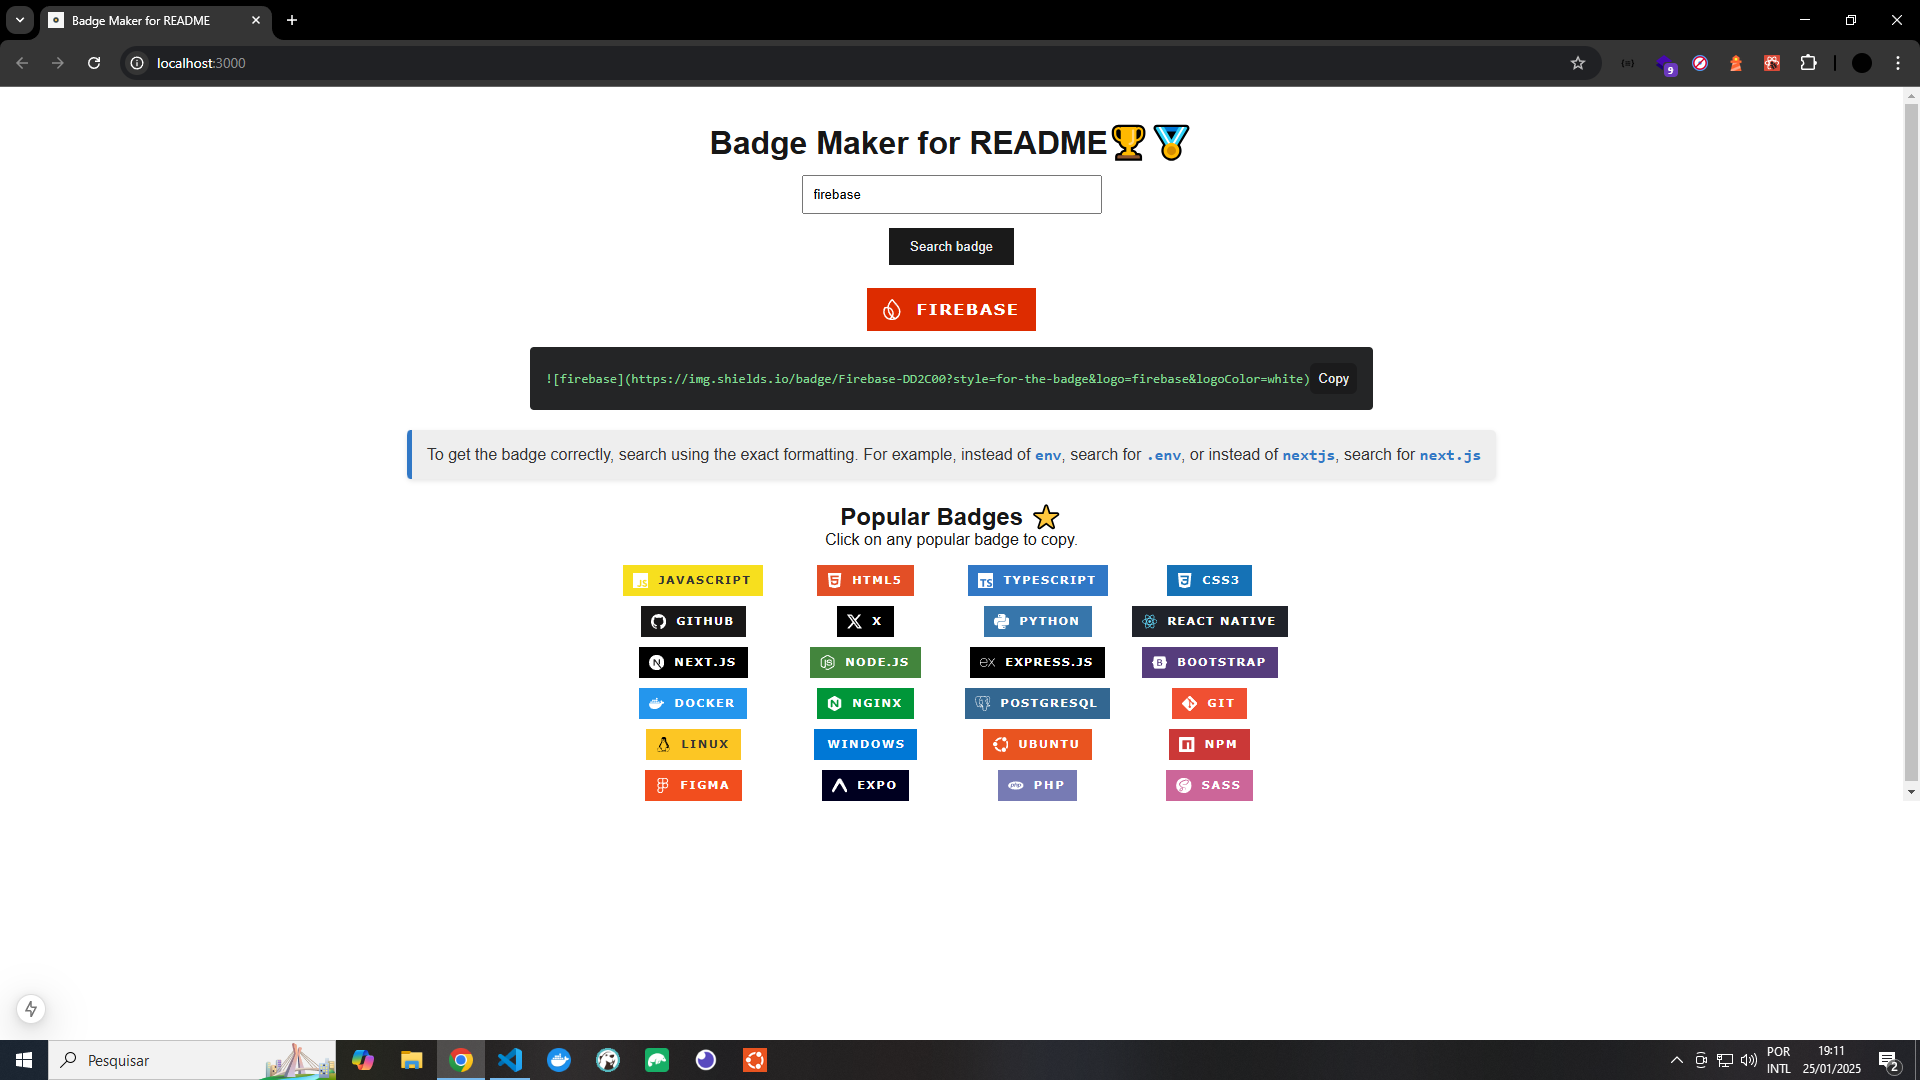
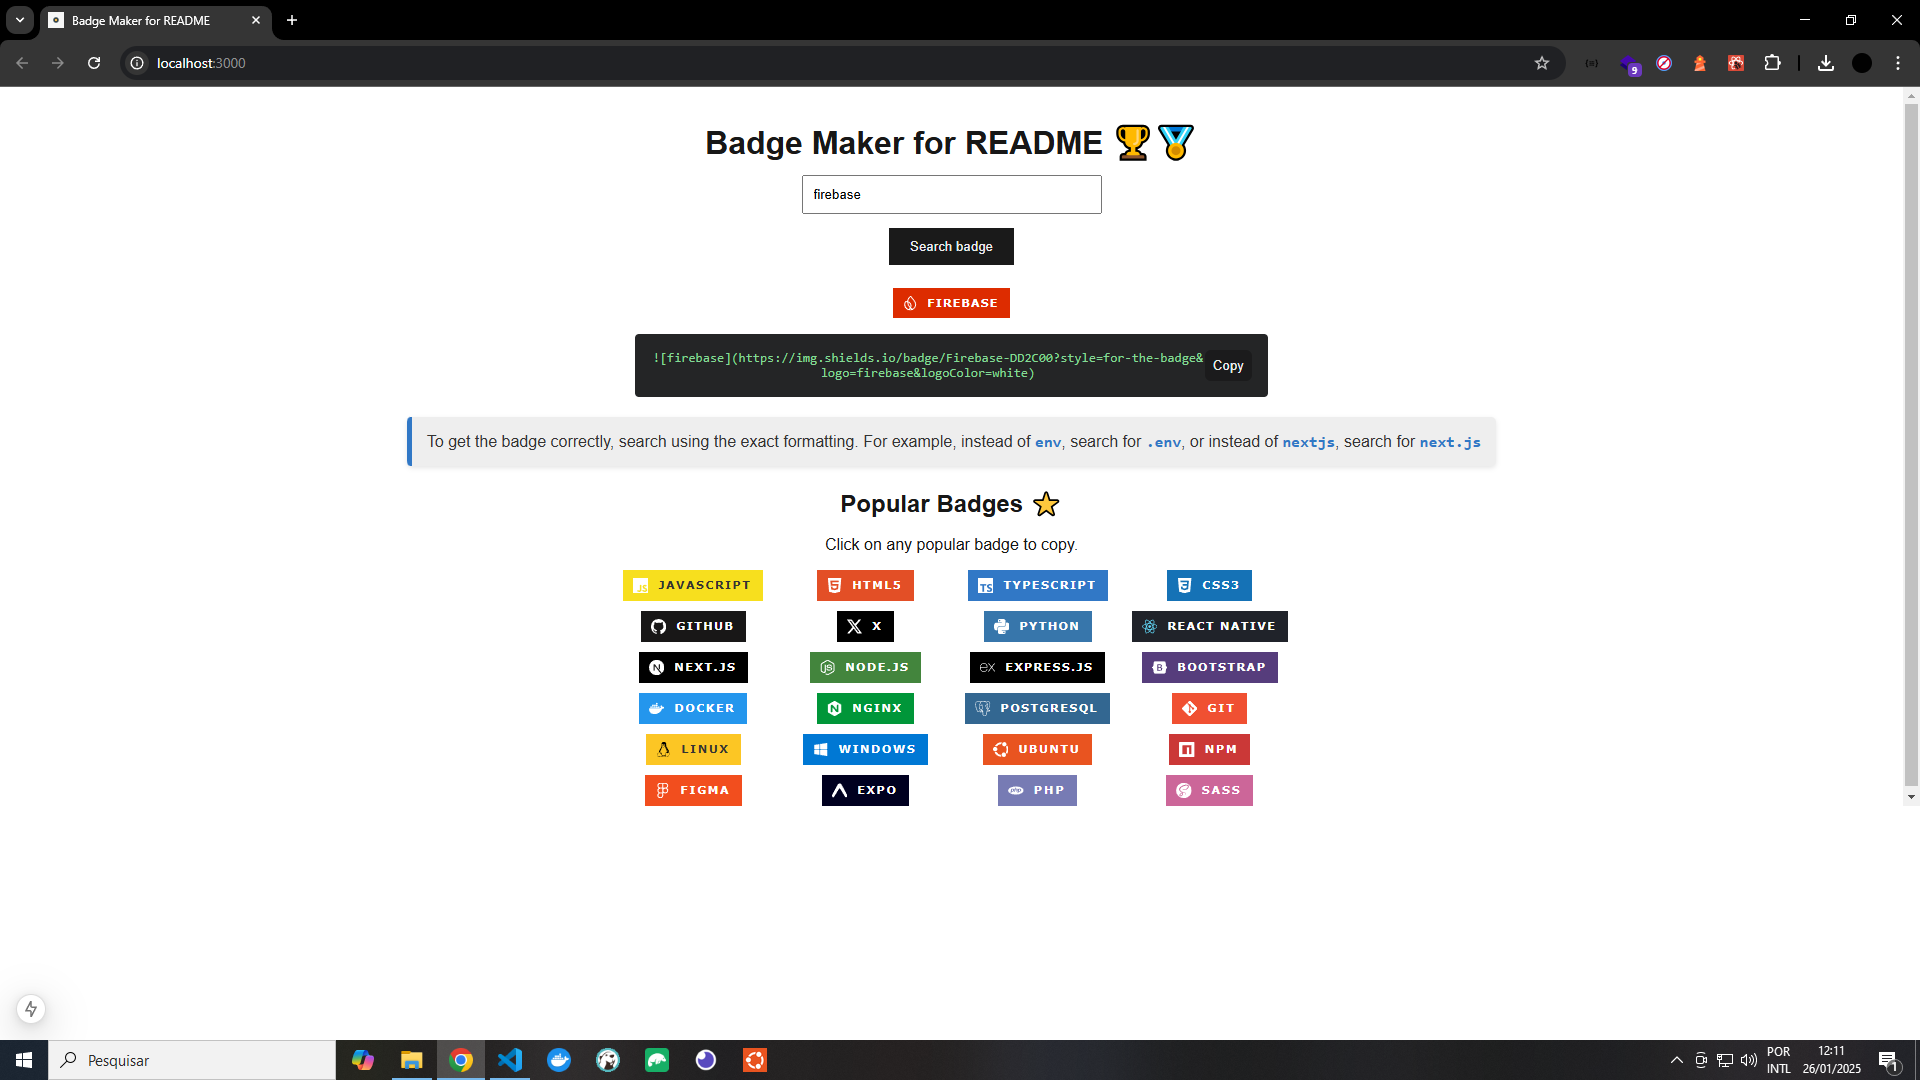
fix: inputValue refactor popularBadges

diff --git a/src/app/page.tsx b/src/app/page.tsx
@@ -2,118 +2,22 @@
 import { useState } from "react";
 import Image from "next/image";
 
+import popularBadges from "./popularBadges.json";
 import styles from "./page.module.css";
 
 const routePath = process.env.NODE_ENV === "development" ? '/' : '/badge-generator/';
 
 export default function Home() {
   const [tool, setTool] = useState("");
+  const [inputValue, setInputValue] = useState("");
   const [badgeUrl, setBadgeUrl] = useState("");
   const [copied, setCopied] = useState(false);
 
-  const popularBadges = [
-    {
-      url: '![js](https://img.shields.io/badge/JavaScript-F7DF1E?style=for-the-badge&logo=JavaScript&logoColor=white)',
-      preview: 'https://img.shields.io/badge/JavaScript-F7DF1E?style=for-the-badge&logo=JavaScript&logoColor=white'
-    },
-    {
-      url: '![html5](https://img.shields.io/badge/HTML5-E34F26?style=for-the-badge&logo=HTML5&logoColor=white)',
-      preview: 'https://img.shields.io/badge/HTML5-E34F26?style=for-the-badge&logo=HTML5&logoColor=white'
-    },
-    {
-      url: '![ts](https://img.shields.io/badge/TypeScript-3178C6?style=for-the-badge&logo=TypeScript&logoColor=white)',
-      preview: 'https://img.shields.io/badge/TypeScript-3178C6?style=for-the-badge&logo=TypeScript&logoColor=white'
-    },
-    {
-      url: '![css3](https://img.shields.io/badge/CSS3-1572B6?style=for-the-badge&logo=CSS3&logoColor=white)',
-      preview: 'https://img.shields.io/badge/CSS3-1572B6?style=for-the-badge&logo=CSS3&logoColor=white'
-    },
-    {
-      url: '![github](https://img.shields.io/badge/GitHub-181717?style=for-the-badge&logo=GitHub&logoColor=white)',
-      preview: 'https://img.shields.io/badge/GitHub-181717?style=for-the-badge&logo=GitHub&logoColor=white'
-    },
-    {
-      url: '![x](https://img.shields.io/badge/X-000000?style=for-the-badge&logo=X&logoColor=white)',
-      preview: 'https://img.shields.io/badge/X-000000?style=for-the-badge&logo=X&logoColor=white'
-    },
-    {
-      url: '![Python](https://img.shields.io/badge/Python-3776AB?style=for-the-badge&logo=python&logoColor=white)',
-      preview: 'https://img.shields.io/badge/Python-3776AB?style=for-the-badge&logo=python&logoColor=white'
-    },
-    {
-      url: '![React Native](https://img.shields.io/badge/React Native-20232A?style=for-the-badge&logo=react&logoColor=61DAFB)',
-      preview: 'https://img.shields.io/badge/React Native-20232A?style=for-the-badge&logo=react&logoColor=61DAFB'
-    },
-    {
-      url: '![Next.js](https://img.shields.io/badge/Next.js-000000?style=for-the-badge&logo=next.js&logoColor=white)',
-      preview: 'https://img.shields.io/badge/Next.js-000000?style=for-the-badge&logo=next.js&logoColor=white'
-    },
-    {
-      url: '![Node.js](https://img.shields.io/badge/Node.js-43853D?style=for-the-badge&logo=node.js&logoColor=white)',
-      preview: 'https://img.shields.io/badge/Node.js-43853D?style=for-the-badge&logo=node.js&logoColor=white'
-    },
-    {
-      url: '![Express.js](https://img.shields.io/badge/Express.js-000000?style=for-the-badge&logo=express&logoColor=white)',
-      preview: 'https://img.shields.io/badge/Express.js-000000?style=for-the-badge&logo=express&logoColor=white'
-    },
-    {
-      url: '![Bootstrap](https://img.shields.io/badge/Bootstrap-563D7C?style=for-the-badge&logo=bootstrap&logoColor=white)',
-      preview: 'https://img.shields.io/badge/Bootstrap-563D7C?style=for-the-badge&logo=bootstrap&logoColor=white'
-    },
-    {
-      url: '![Docker](https://img.shields.io/badge/Docker-2496ED?style=for-the-badge&logo=docker&logoColor=white)',
-      preview: 'https://img.shields.io/badge/Docker-2496ED?style=for-the-badge&logo=docker&logoColor=white'
-    },
-    {
-      url: '![nginx](https://img.shields.io/badge/NGINX-009639?style=for-the-badge&logo=NGINX&logoColor=white)',
-      preview: 'https://img.shields.io/badge/NGINX-009639?style=for-the-badge&logo=NGINX&logoColor=white'
-    },
-    {
-      url: '![PostgreSQL](https://img.shields.io/badge/PostgreSQL-336791?style=for-the-badge&logo=postgresql&logoColor=white)',
-      preview: 'https://img.shields.io/badge/PostgreSQL-336791?style=for-the-badge&logo=postgresql&logoColor=white'
-    },
-    {
-      url: '![Git](https://img.shields.io/badge/Git-F05032?style=for-the-badge&logo=git&logoColor=white)',
-      preview: 'https://img.shields.io/badge/Git-F05032?style=for-the-badge&logo=git&logoColor=white'
-    },
-    {
-      url: '![Linux](https://img.shields.io/badge/Linux-FCC624?style=for-the-badge&logo=linux&logoColor=black)',
-      preview: 'https://img.shields.io/badge/Linux-FCC624?style=for-the-badge&logo=linux&logoColor=black'
-    },
-    {
-      url: '![Windows](https://img.shields.io/badge/Windows-0078D6?style=for-the-badge&logo=windows&logoColor=white)',
-      preview: 'https://img.shields.io/badge/Windows-0078D6?style=for-the-badge&logo=windows&logoColor=white'
-    },
-    {
-      url: '![Ubuntu](https://img.shields.io/badge/Ubuntu-E95420?style=for-the-badge&logo=ubuntu&logoColor=white)',
-      preview: 'https://img.shields.io/badge/Ubuntu-E95420?style=for-the-badge&logo=ubuntu&logoColor=white'
-    },
-    {
-      url: '![npm](https://img.shields.io/badge/npm-CB3837?style=for-the-badge&logo=npm&logoColor=white)',
-      preview: 'https://img.shields.io/badge/npm-CB3837?style=for-the-badge&logo=npm&logoColor=white'
-    },
-    {
-      url: '![figma](https://img.shields.io/badge/Figma-F24E1E?style=for-the-badge&logo=Figma&logoColor=white)',
-      preview: 'https://img.shields.io/badge/Figma-F24E1E?style=for-the-badge&logo=Figma&logoColor=white'
-    },
-    {
-      url: '![expo](https://img.shields.io/badge/Expo-000020?style=for-the-badge&logo=Expo&logoColor=white)',
-      preview: 'https://img.shields.io/badge/Expo-000020?style=for-the-badge&logo=Expo&logoColor=white'
-    },
-    {
-      url: '![php](https://img.shields.io/badge/PHP-777BB4?style=for-the-badge&logo=PHP&logoColor=white)',
-      preview: 'https://img.shields.io/badge/PHP-777BB4?style=for-the-badge&logo=PHP&logoColor=white'
-    },
-    {
-      url: '![sass](https://img.shields.io/badge/Sass-CC6699?style=for-the-badge&logo=Sass&logoColor=white)',
-      preview: 'https://img.shields.io/badge/Sass-CC6699?style=for-the-badge&logo=Sass&logoColor=white'
-    }
-  ];
-
   const generateBadge = async () => {
-    if (!tool) return;
+    if (!inputValue) return;
   
-    const formattedTool = tool.trim().toLowerCase();
+    const formattedTool = inputValue.trim().toLowerCase();
+    setTool(formattedTool);
   
     try {
       const [data, dataCustom] = await Promise.all([
@@ -148,13 +52,13 @@ export default function Home() {
 
   return (
     <main className={styles.main}>
-      <h1>Badge Maker for README🏆🏅</h1>
+      <h1>Badge Maker for README 🏆🏅</h1>
 
       <input
         type="text"
         placeholder="Search tool name... (ex: rust)"
-        value={tool}
-        onChange={(e) => setTool(e.target.value)}
+        value={inputValue}
+        onChange={(e) => setInputValue(e.target.value)}
       />
 
       <button onClick={generateBadge} className={styles.buttonGenerateBadge}>
@@ -185,6 +89,7 @@ export default function Home() {
       </p>
 
       <h2>Popular Badges ⭐</h2>
+      <br />
       <p>Click on any popular badge to copy.</p>
       <div className={styles.badgesPopular}>
         {

diff --git a/src/app/page.module.css b/src/app/page.module.css
@@ -42,8 +42,8 @@
 }
 
 .badgeContent .imgBadge {
-  width: 20%;
   margin-bottom: 1em;
+  max-height: 30px;
 }
 
 .badgeContent button svg:hover {
@@ -57,11 +57,12 @@
   justify-content: center;
   align-items: center;
   display: flex;
+  width: 75%;
 }
 
 .copy code {
-  width: 95%;
   color: #85d996;
+  word-break: break-all;
 }
 
 .copy button {
@@ -114,6 +115,12 @@
   object-fit: contain; /* Isso mantém a imagem proporcional sem distorcer */
   width: 100%; /* Garantir que a imagem ocupe todo o espaço disponível */
   height: 100%; /* Garantir que a altura da imagem também seja proporcional */
+}
+
+@media screen and (max-width: 1500px) {
+  .copy {
+    width: 100%;
+  }
 }
 
 @media screen and (max-width: 580px) {

diff --git a/README.md b/README.md
@@ -45,10 +45,9 @@ This project uses the following APIs to generate custom badges:
 2. [Shields.io](https://shields.io/)  
     - Service to generate custom badges for README.
 
-## 🐛 Problemas e Suporte
+## 🐛 Problems and Support
 
-Caso encontre algum problema, sinta-se à vontade para abrir uma [issue](https://github.com/t-heu/badge-generator/issues).
+If you encounter any problems, feel free to open an [issue](https://github.com/t-heu/badge-generator/issues).
 
-## 📄 Licença
-
-Este projeto está sob a licença MIT. Veja o arquivo [LICENSE](LICENSE) para mais detalhes.
+## 📄 License
+This project is licensed under the MIT License. See the [LICENSE](LICENSE) file for more details.
